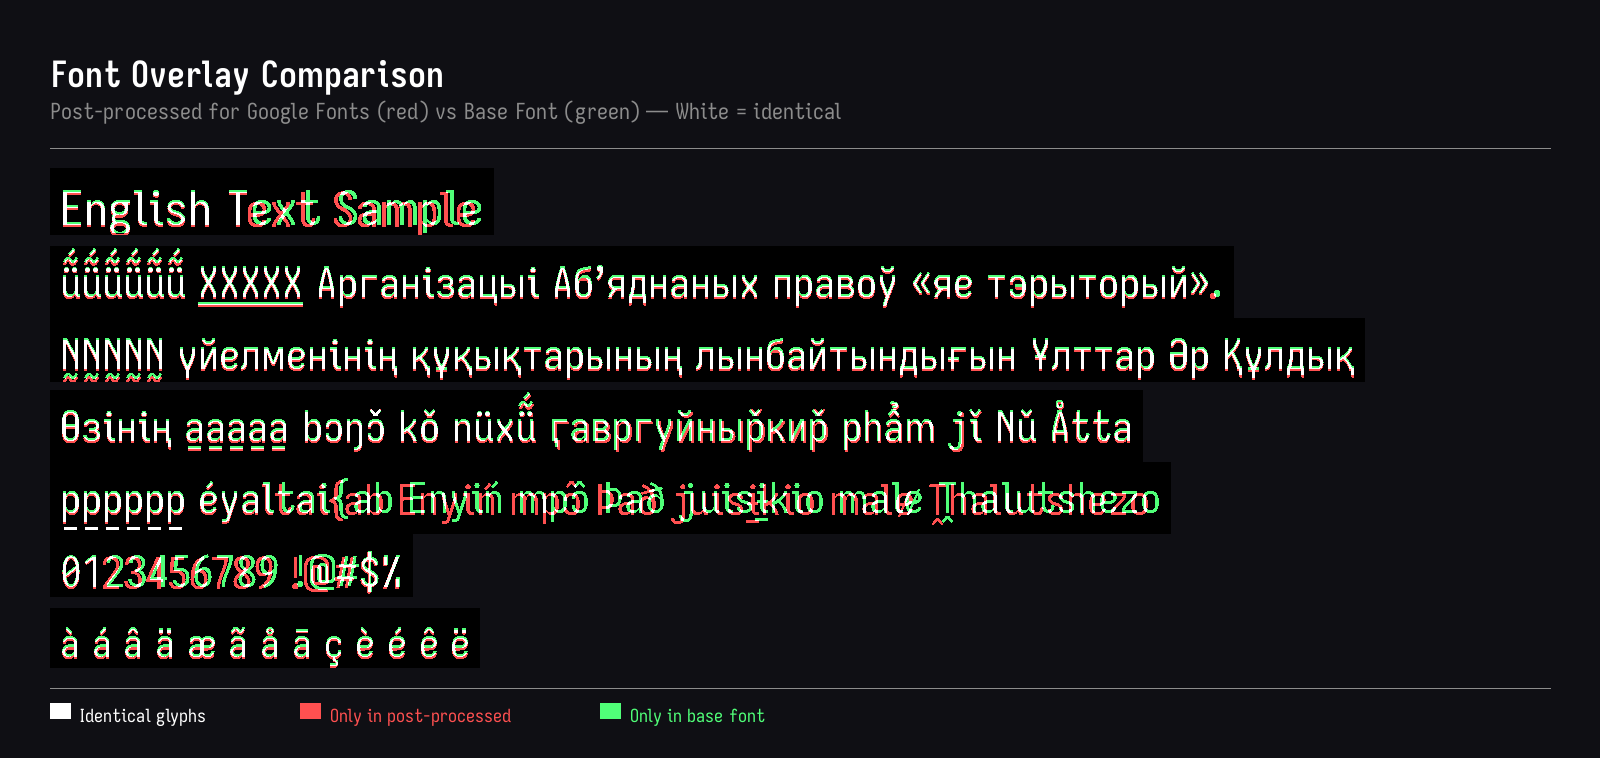
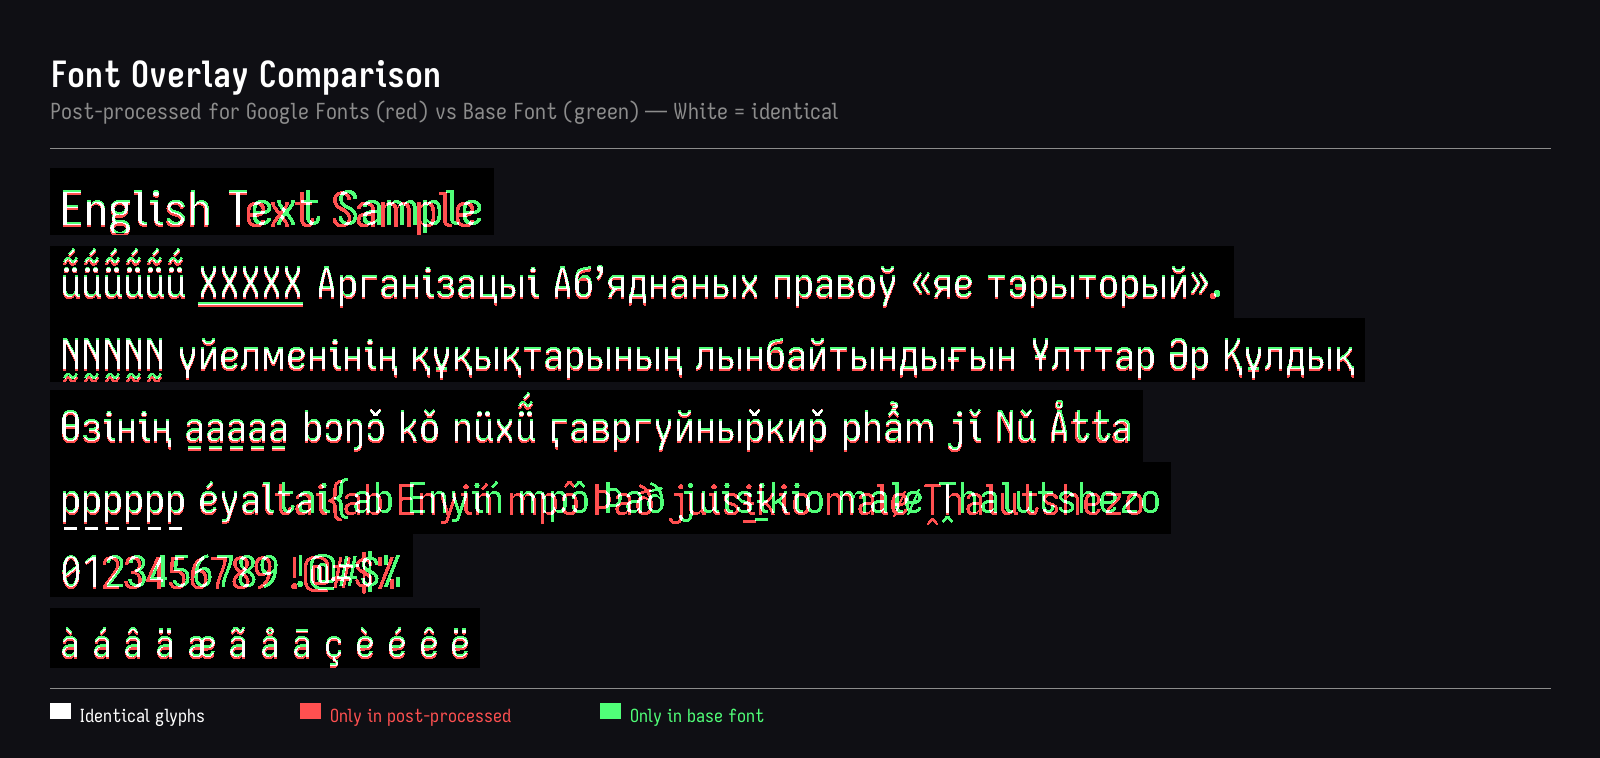
Revert "Restore positive kerns alongside negative for full auto-kerning range"
This reverts commit 5c1c37d6186a5442313b63652d5aadee20bef5a6.

diff --git a/scripts/autokern.py b/scripts/autokern.py
@@ -111,7 +111,7 @@ class AutoKernConfig:
     threshold_units: int = 5  # drop kerns smaller than this (font units)
     quantize_step: int = 2  # round kerns to multiples of this (font units)
     class_tolerance: int = 10  # max deviation for class merging (font units)
-    negative_only: bool = False  # emit both tightening and loosening kerns
+    negative_only: bool = True  # only emit tightening (negative) kerns
 
 
 # ---------------------------------------------------------------------------
